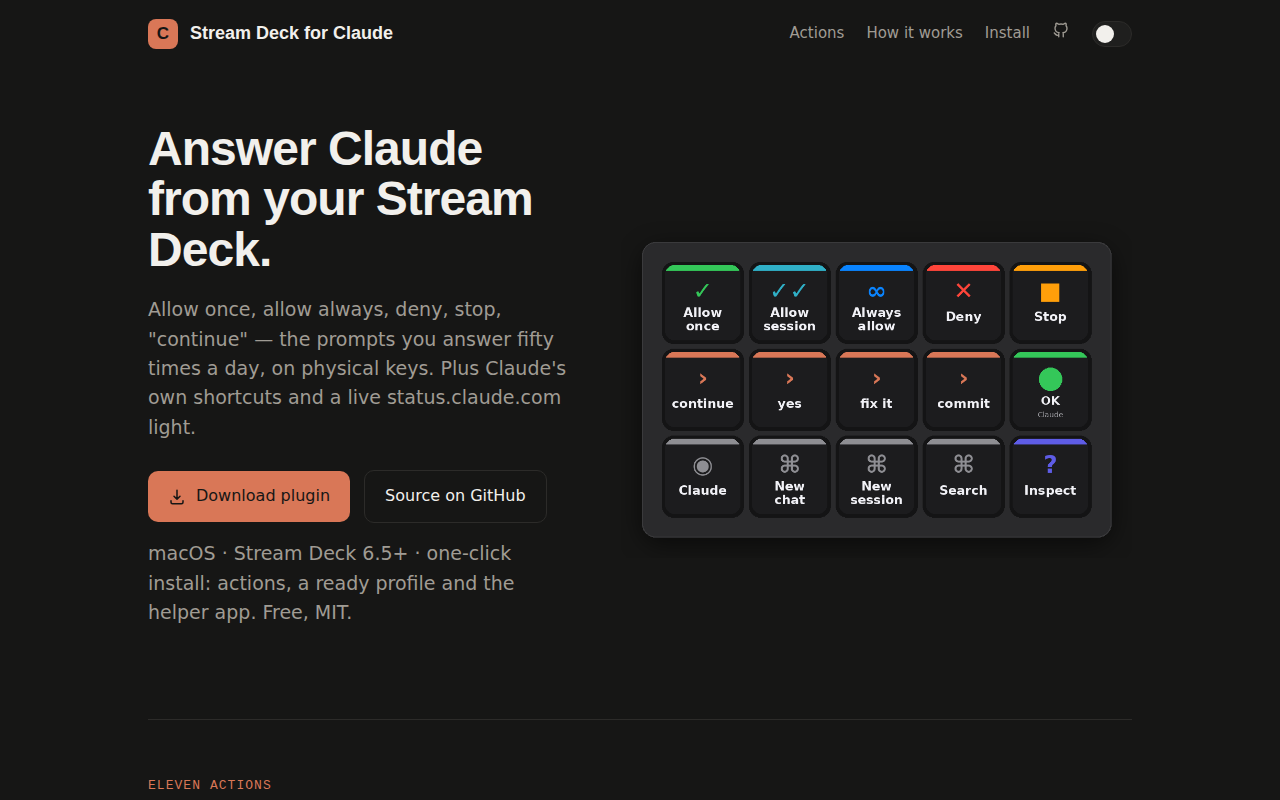
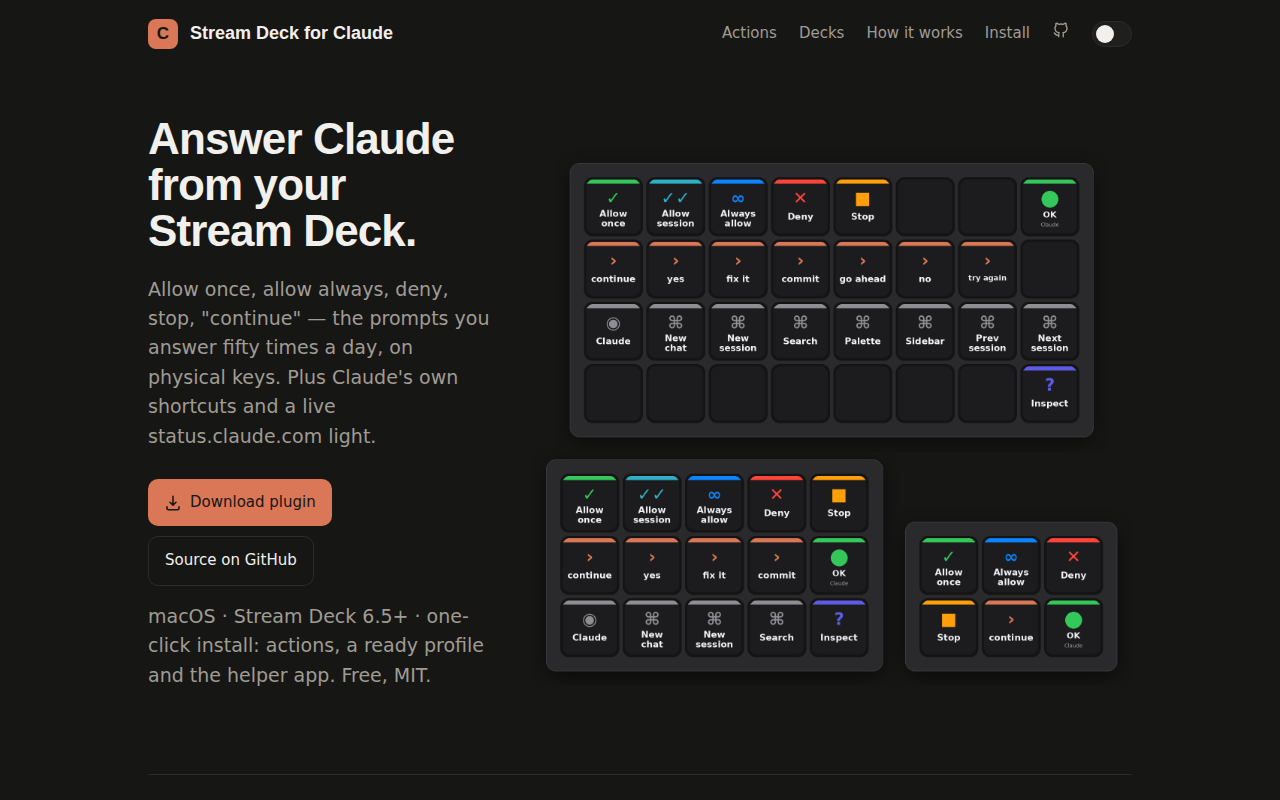
Site: show all three deck profiles in the hero
Claude-Session: https://claude.ai/code/session_01CF32YfgR6FwNua8v9qMVw3

diff --git a/docs/index.html b/docs/index.html
@@ -24,11 +24,11 @@ nav{display:flex;align-items:center;justify-content:space-between;height:68px}
 .toggle{width:40px;height:26px;border-radius:13px;border:1px solid var(--line);background:var(--bg2);position:relative;cursor:pointer;padding:0}
 .toggle::after{content:"";position:absolute;top:3px;left:3px;width:18px;height:18px;border-radius:50%;background:var(--fg);transition:left .15s}
 [data-theme=dark] .toggle::after{left:17px}
-.hero{display:grid;grid-template-columns:minmax(0,5fr) minmax(0,6fr);gap:48px;align-items:center;padding:56px 0 64px}
-.hero h1{font-size:48px;line-height:1.05;font-weight:700}
+.hero{display:grid;grid-template-columns:minmax(0,4fr) minmax(0,7fr);gap:40px;align-items:center;padding:48px 0 56px}
+.hero h1{font-size:44px;line-height:1.05;font-weight:700}
 .hero p{font-size:19px;color:var(--fg2);margin:20px 0 28px}
-.cta{display:flex;gap:14px;align-items:center;flex-wrap:wrap}
-.btn{display:inline-flex;align-items:center;gap:10px;background:var(--accent);color:var(--accent-fg);font-weight:500;padding:13px 20px;border-radius:10px;font-size:16px}
+.cta{display:flex;gap:10px;align-items:center;flex-wrap:wrap}
+.btn{display:inline-flex;align-items:center;gap:8px;background:var(--accent);color:var(--accent-fg);font-weight:500;padding:12px 16px;border-radius:10px;font-size:15px}
 .btn:hover{color:var(--accent-fg);filter:brightness(1.08)}
 .btn.ghost{background:transparent;color:var(--fg);border:1px solid var(--line)}
 .meta{font-size:14px;color:var(--fg2)}
@@ -76,7 +76,7 @@ footer a{color:var(--fg2)}footer a:hover{color:var(--fg)}
       </div>
       <p class="meta" style="margin-top:16px">macOS · Stream Deck 6.5+ · one-click install: actions, a ready profile and the helper app. Free, MIT.</p>
     </div>
-    <img src="img/deck.png" width="976" height="644" alt="Stream Deck with the default Claude profile: Allow once, Allow session, Always allow, Deny, Stop; continue, yes, fix it, commit, Claude Status; Claude, New chat, New session, Search, Inspect">
+    <img src="img/hero-decks.png" width="1600" height="1434" alt="The three bundled profiles: Stream Deck XL, Stream Deck MK.2 and Stream Deck Mini with Claude permission keys, replies, shortcuts and status">
   </div>
 
   <section id="actions">
@@ -99,11 +99,7 @@ footer a{color:var(--fg2)}footer a:hover{color:var(--fg)}
   <section id="decks">
     <div class="eyebrow">Every deck size</div>
     <h2>Mini, MK.2, XL — a profile for each.</h2>
-    <p class="lead">The installer carries three ready-made profiles; Stream Deck installs the one that matches your device. Six keys on the Mini, the full set with spare replies and every shortcut on the XL.</p>
-    <div class="decks">
-      <img src="img/deck-mini.png" alt="Stream Deck Mini profile: Allow once, Always allow, Deny; Stop, continue, Claude Status">
-      <img src="img/deck-xl.png" alt="Stream Deck XL profile: permission row with status, seven replies, eight shortcuts, Inspect">
-    </div>
+    <p class="lead">The installer carries three ready-made profiles — <strong>Claude</strong> (MK.2, 5×3), <strong>Claude Mini</strong> (3×2) and <strong>Claude XL</strong> (8×4) — and Stream Deck installs only the one that matches your device. Six essentials on the Mini; the full set with spare replies and every shortcut on the XL.</p>
   </section>
 
   <section id="how">

diff --git a/site/build_site.py b/site/build_site.py
@@ -26,11 +26,11 @@ nav{display:flex;align-items:center;justify-content:space-between;height:68px}
 .toggle{width:40px;height:26px;border-radius:13px;border:1px solid var(--line);background:var(--bg2);position:relative;cursor:pointer;padding:0}
 .toggle::after{content:"";position:absolute;top:3px;left:3px;width:18px;height:18px;border-radius:50%;background:var(--fg);transition:left .15s}
 [data-theme=dark] .toggle::after{left:17px}
-.hero{display:grid;grid-template-columns:minmax(0,5fr) minmax(0,6fr);gap:48px;align-items:center;padding:56px 0 64px}
-.hero h1{font-size:48px;line-height:1.05;font-weight:700}
+.hero{display:grid;grid-template-columns:minmax(0,4fr) minmax(0,7fr);gap:40px;align-items:center;padding:48px 0 56px}
+.hero h1{font-size:44px;line-height:1.05;font-weight:700}
 .hero p{font-size:19px;color:var(--fg2);margin:20px 0 28px}
-.cta{display:flex;gap:14px;align-items:center;flex-wrap:wrap}
-.btn{display:inline-flex;align-items:center;gap:10px;background:var(--accent);color:var(--accent-fg);font-weight:500;padding:13px 20px;border-radius:10px;font-size:16px}
+.cta{display:flex;gap:10px;align-items:center;flex-wrap:wrap}
+.btn{display:inline-flex;align-items:center;gap:8px;background:var(--accent);color:var(--accent-fg);font-weight:500;padding:12px 16px;border-radius:10px;font-size:15px}
 .btn:hover{color:var(--accent-fg);filter:brightness(1.08)}
 .btn.ghost{background:transparent;color:var(--fg);border:1px solid var(--line)}
 .meta{font-size:14px;color:var(--fg2)}
@@ -86,7 +86,7 @@ def body(img, toggle_button=True):
       </div>
       <p class="meta" style="margin-top:16px">macOS · Stream Deck 6.5+ · one-click install: actions, a ready profile and the helper app. Free, MIT.</p>
     </div>
-    <img src="{img('deck.png')}" width="976" height="644" alt="Stream Deck with the default Claude profile: Allow once, Allow session, Always allow, Deny, Stop; continue, yes, fix it, commit, Claude Status; Claude, New chat, New session, Search, Inspect">
+    <img src="{img('hero-decks.png')}" width="1600" height="1434" alt="The three bundled profiles: Stream Deck XL, Stream Deck MK.2 and Stream Deck Mini with Claude permission keys, replies, shortcuts and status">
   </div>
 
   <section id="actions">
@@ -109,11 +109,7 @@ def body(img, toggle_button=True):
   <section id="decks">
     <div class="eyebrow">Every deck size</div>
     <h2>Mini, MK.2, XL — a profile for each.</h2>
-    <p class="lead">The installer carries three ready-made profiles; Stream Deck installs the one that matches your device. Six keys on the Mini, the full set with spare replies and every shortcut on the XL.</p>
-    <div class="decks">
-      <img src="{img('deck-mini.png')}" alt="Stream Deck Mini profile: Allow once, Always allow, Deny; Stop, continue, Claude Status">
-      <img src="{img('deck-xl.png')}" alt="Stream Deck XL profile: permission row with status, seven replies, eight shortcuts, Inspect">
-    </div>
+    <p class="lead">The installer carries three ready-made profiles — <strong>Claude</strong> (MK.2, 5×3), <strong>Claude Mini</strong> (3×2) and <strong>Claude XL</strong> (8×4) — and Stream Deck installs only the one that matches your device. Six essentials on the Mini; the full set with spare replies and every shortcut on the XL.</p>
   </section>
 
   <section id="how">
